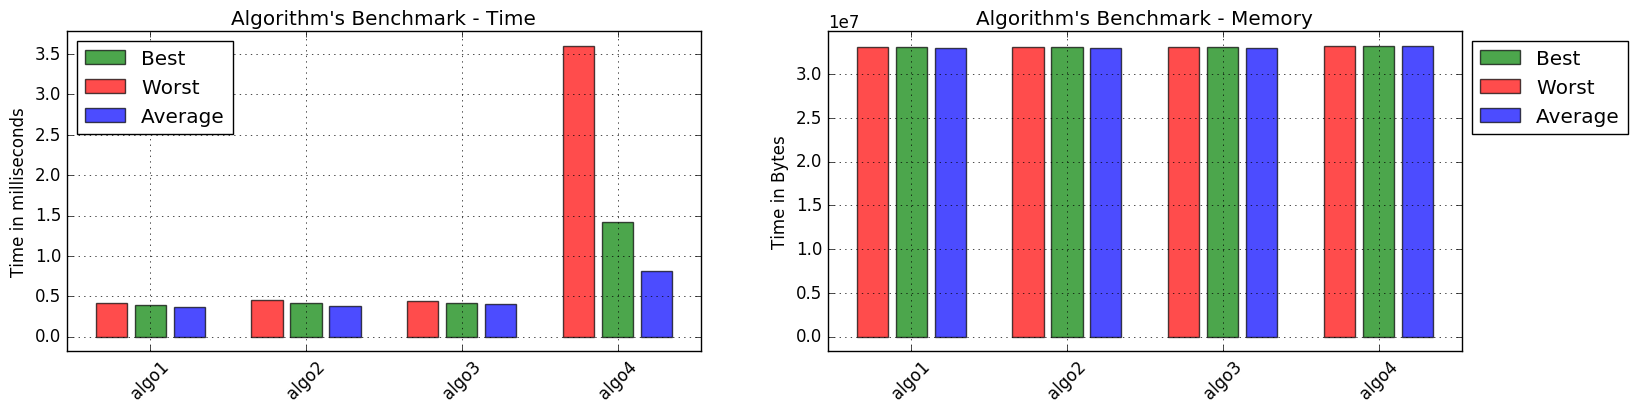
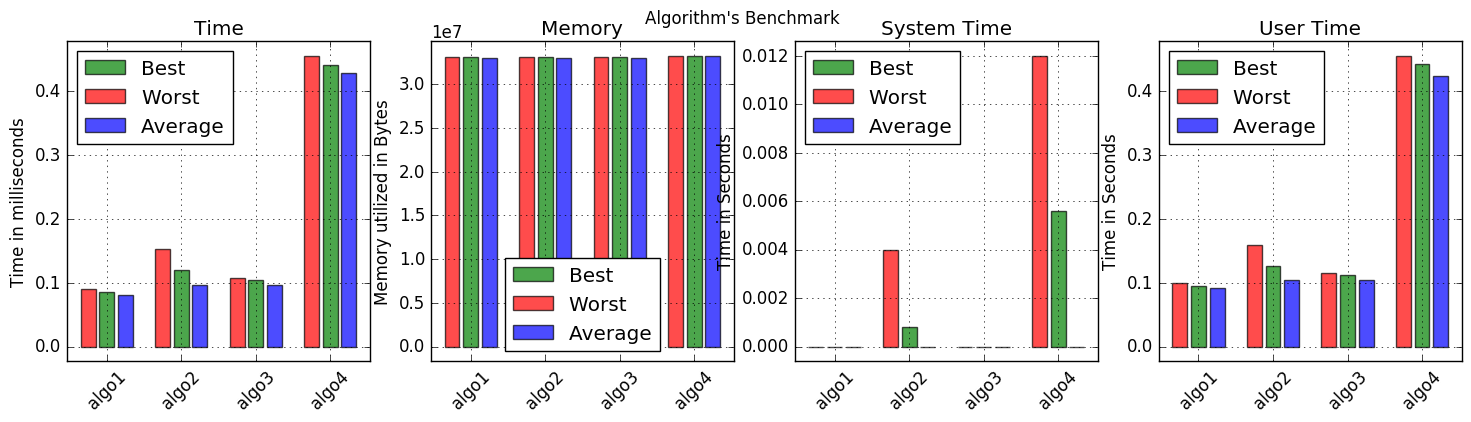
added user time and system time for benchmark test

diff --git a/benchmark/utilities/make_graph.py b/benchmark/utilities/make_graph.py
@@ -13,49 +13,81 @@ import numpy as np
 def generate_graph(results, algo_names):
     """Function to generate graph of the results"""
     fig = plt.figure(figsize=(18, 4), dpi=1600)
-
+    fig.suptitle('Algorithm\'s Benchmark', fontsize=12)
     alpha = 0.7
     colors = ['g', 'r', 'b']
     X = np.arange(len(algo_names))
     dists = [0, -0.25, 0.25]
     labels = ['Best', 'Worst', 'Average']
     x_vals = algo_names
-    memory_list, time_list = [], []
+    memory_list, time_list, sys_time_list, user_time_list = [], [], [], []
 
     for __, values in results.iteritems():
         memory_list.append(values['memory'].values())
         time_list.append(values['time'].values())
+        sys_time_list.append(values['sys_time'].values())
+        user_time_list.append(values['user_time'].values())
 
     memory_transpose = zip(*memory_list)
     time_transpose = zip(*time_list)
+    sys_time_transpose = zip(*sys_time_list)
+    user_time_transpose = zip(*user_time_list)
 
     # algs_transpose = zip(
     #     *[[value for __, value in values.iteritems()]
     #       for __, values in results.iteritems()]
     # )
 
-    ax1 = fig.add_subplot(121)
+    ax1 = fig.add_subplot(141)
+
     for alg_t, color, dist, label in zip(time_transpose, colors, dists, labels):
         ax1.bar(X + dist, alg_t, width=0.2, color=color,
                 align='center', label=label, alpha=alpha)
 
-    plt.title('Algorithm\'s Benchmark - Time')
+    plt.title('Time')
     plt.xticks(X, x_vals, rotation=45)
     plt.legend(loc='best')
     plt.ylabel('Time in milliseconds')
     plt.grid(True)
     ax1.margins(0.05)
-    ax2 = fig.add_subplot(122)
+
+    ax2 = fig.add_subplot(142)
 
     for alg_t, color, dist, label in zip(memory_transpose, colors, dists, labels):
         ax2.bar(X + dist, alg_t, width=0.2, color=color,
                 align='center', label=label, alpha=alpha)
 
-    plt.title('Algorithm\'s Benchmark - Memory')
+    plt.title('Memory')
     plt.xticks(X, x_vals, rotation=45)
-    plt.legend(loc='best', bbox_to_anchor=(1, 1))
-    plt.ylabel('Time in Bytes')
+    plt.legend(loc='best')
+    plt.ylabel('Memory utilized in Bytes')
     plt.grid(True)
     ax2.margins(0.05)
+
+    ax3 = fig.add_subplot(143)
+
+    for alg_t, color, dist, label in zip(sys_time_transpose, colors, dists, labels):
+        ax3.bar(X + dist, alg_t, width=0.2, color=color,
+                align='center', label=label, alpha=alpha)
+
+    plt.title('System Time')
+    plt.xticks(X, x_vals, rotation=45)
+    plt.legend(loc='best')
+    plt.ylabel('Time in Seconds')
+    plt.grid(True)
+    ax3.margins(0.05)
+
+    ax4 = fig.add_subplot(144)
+
+    for alg_t, color, dist, label in zip(user_time_transpose, colors, dists, labels):
+        ax4.bar(X + dist, alg_t, width=0.2, color=color,
+                align='center', label=label, alpha=alpha)
+
+    plt.title('User Time')
+    plt.xticks(X, x_vals, rotation=45)
+    plt.legend(loc='best')
+    plt.ylabel('Time in Seconds')
+    plt.grid(True)
+    ax4.margins(0.05)
 
     plt.savefig('results.png', bbox_inches='tight')

diff --git a/benchmark/utilities/calculate_time.py b/benchmark/utilities/calculate_time.py
@@ -9,34 +9,50 @@ https://www.algorithmhub.com/
 
 from __future__ import division
 import time
+import resource
+
 from guppy import hpy
 
 
 def find_time(method):
 
     def timed(*args, **kwargs):
-        total, memory = [], []
+        total, memory, sys_time, user_time = [], [], [], []
         loops = 5
 
         # to measure the memory or virtual memory used
         h = hpy()
 
         # to reduce the time involed in calculating memory
-        diff = 0.0836183111810684159
+        diff = 0.00836183111810684159
 
         for i in range(loops):
-            time_start = time.time()
+
+            # calculate the start time and the resource usage
+            start_time, start_resources = time.time(), resource.getrusage(resource.RUSAGE_SELF)
 
             # executes the function
             result = method(*args, **kwargs)
 
+            # calculate the end time and the resource usage
+            end_resources, end_time = resource.getrusage(resource.RUSAGE_SELF), time.time()
+
             # calculater the memory used
             mem = h.heap().size
-            time_taken = time.time() - time_start
+            time_taken = end_time - start_time
+            sys_t = end_resources.ru_stime - start_resources.ru_stime
+            user_t = end_resources.ru_utime - start_resources.ru_utime
 
-            print 'Time taken - {a} of {l} loops: {t}'\
-                '\tMemory used - {a} of {l} loops: {m}'.format(a=i + 1, l=loops, t=time_taken, m=mem)
+            print 'For {a} of {l} loops' \
+                '\tTime taken: {t}' \
+                '\tSystem time: {s}' \
+                '\tUser time: {u}' \
+                '\tMemory used: {m}'.format(a=i + 1, l=loops, t=time_taken,
+                                            m=mem, s=sys_t, u=user_t)
+
             total.append(abs(time_taken - diff))
+            sys_time.append(sys_t)
+            user_time.append(user_t)
             memory.append(mem)
 
         return {
@@ -51,7 +67,19 @@ def find_time(method):
                     'best': min(memory),
                     'worst': max(memory),
                     'average': sum(memory) / len(memory)
-                }
+                },
+            'sys_time':
+                {
+                    'best': min(sys_time),
+                    'worst': max(sys_time),
+                    'average': sum(sys_time) / len(sys_time)
+                },
+            'user_time':
+                {
+                    'best': min(user_time),
+                    'worst': max(user_time),
+                    'average': sum(user_time) / len(user_time)
+                },
         }
 
     return timed

diff --git a/benchmark/algorithms/algo_list.py b/benchmark/algorithms/algo_list.py
@@ -7,14 +7,16 @@ This is for testing purpose only.
 AlgorithmHub. All rights reserved.
 https://www.algorithmhub.com/
 """
-def algo1(max_n):
+
+
+def algo1(n):
     # http://stackoverflow.com/questions/2068372/fastest-way-to-list-all-primes-below-n-in-python/2073279#2073279
     """ Returns  a list of primes < n """
-    numbers = range(3, max_n + 1, 2)
-    half = (max_n) // 2
+    numbers = range(3, n + 1, 2)
+    half = (n) // 2
     initial = 4
 
-    for step in xrange(3, max_n + 1, 2):
+    for step in xrange(3, n + 1, 2):
         for i in xrange(initial, half, step):
             numbers[i - 1] = 0
         initial += 2 * (step + 1)

diff --git a/benchmark/benchmark.py b/benchmark/benchmark.py
@@ -51,4 +51,5 @@ print
 print 'Overall Results'
 print results
 
+# to generate the graphs of the results
 generate_graph(results, algo_names)

diff --git a/benchmark/README.md b/benchmark/README.md
@@ -5,15 +5,14 @@ This directory contains all the benchmark tests.
 ## Python Dependencies
 * matplotlib
 * numpy
+* guppy
 
 The following parameters are to be considered for version 0.1.0:
 
 * Time taken
 * Virtual memory or RAM space utilization
-* CPU utilization
-* Total number of CPU-seconds
-* Elapsed real (wall clock) time used by the process
-* Total number of CPU-seconds used by the system
+* System time
+* User time
 
 To run the bechmark tests:
 ```
@@ -22,33 +21,33 @@ $ sudo python benchmark.py
 This will give the following output:
 ```
 Time taken for algo1
-Time taken - 1 of 5 loops: 3.68740606308    Memory used - 1 of 5 loops: 33248488
-Time taken - 2 of 5 loops: 1.00408911705    Memory used - 2 of 5 loops: 33250760
-Time taken - 3 of 5 loops: 0.942035913467   Memory used - 3 of 5 loops: 33250856
-Time taken - 4 of 5 loops: 0.899518966675   Memory used - 4 of 5 loops: 33250856
-Time taken - 5 of 5 loops: 1.01477003098    Memory used - 5 of 5 loops: 33250952
+For 1 of 5 loops    Time taken: 0.437947034836  System time: 0.012  User time: 0.424    Memory used: 33265656
+For 2 of 5 loops    Time taken: 0.464282989502  System time: 0.008  User time: 0.456    Memory used: 33268104
+For 3 of 5 loops    Time taken: 0.437602996826  System time: 0.0    User time: 0.436    Memory used: 33268248
+For 4 of 5 loops    Time taken: 0.446910142899  System time: 0.004  User time: 0.444    Memory used: 33268296
+For 5 of 5 loops    Time taken: 0.459230184555  System time: 0.004  User time: 0.456    Memory used: 33268440
 Time taken for algo2
-Time taken - 1 of 5 loops: 0.541555166245   Memory used - 1 of 5 loops: 33008696
-Time taken - 2 of 5 loops: 0.496054172516   Memory used - 2 of 5 loops: 33091336
-Time taken - 3 of 5 loops: 0.50258898735    Memory used - 3 of 5 loops: 33091512
-Time taken - 4 of 5 loops: 0.504120111465   Memory used - 4 of 5 loops: 33091608
-Time taken - 5 of 5 loops: 0.460325956345   Memory used - 5 of 5 loops: 33091608
+For 1 of 5 loops    Time taken: 0.145737886429  System time: 0.004  User time: 0.14 Memory used: 33026480
+For 2 of 5 loops    Time taken: 0.112924098969  System time: 0.0    User time: 0.112    Memory used: 33109296
+For 3 of 5 loops    Time taken: 0.161767959595  System time: 0.0    User time: 0.16 Memory used: 33109608
+For 4 of 5 loops    Time taken: 0.116852045059  System time: 0.0    User time: 0.116    Memory used: 33109752
+For 5 of 5 loops    Time taken: 0.105036020279  System time: 0.0    User time: 0.104    Memory used: 33109800
 Time taken for algo3
-Time taken - 1 of 5 loops: 0.529996871948   Memory used - 1 of 5 loops: 33009728
-Time taken - 2 of 5 loops: 0.501305103302   Memory used - 2 of 5 loops: 33092272
-Time taken - 3 of 5 loops: 0.509891033173   Memory used - 3 of 5 loops: 33092544
-Time taken - 4 of 5 loops: 0.493989944458   Memory used - 4 of 5 loops: 33092544
-Time taken - 5 of 5 loops: 0.483810901642   Memory used - 5 of 5 loops: 33092640
+For 1 of 5 loops    Time taken: 0.114185810089  System time: 0.0    User time: 0.112    Memory used: 33028216
+For 2 of 5 loops    Time taken: 0.116523981094  System time: 0.0    User time: 0.116    Memory used: 33110936
+For 3 of 5 loops    Time taken: 0.113718986511  System time: 0.0    User time: 0.112    Memory used: 33111344
+For 4 of 5 loops    Time taken: 0.11449098587   System time: 0.0    User time: 0.116    Memory used: 33111392
+For 5 of 5 loops    Time taken: 0.104866027832  System time: 0.0    User time: 0.104    Memory used: 33111536
 Time taken for algo4
-Time taken - 1 of 5 loops: 0.499253988266   Memory used - 1 of 5 loops: 33010664
-Time taken - 2 of 5 loops: 0.475882053375   Memory used - 2 of 5 loops: 33093216
-Time taken - 3 of 5 loops: 0.449546098709   Memory used - 3 of 5 loops: 33093480
-Time taken - 4 of 5 loops: 0.490152835846   Memory used - 4 of 5 loops: 33093576
-Time taken - 5 of 5 loops: 0.456408023834   Memory used - 5 of 5 loops: 33093576
+For 1 of 5 loops    Time taken: 0.0981259346008 System time: 0.0    User time: 0.1  Memory used: 33029832
+For 2 of 5 loops    Time taken: 0.0889449119568 System time: 0.0    User time: 0.092    Memory used: 33112648
+For 3 of 5 loops    Time taken: 0.0960028171539 System time: 0.0    User time: 0.096    Memory used: 33112960
+For 4 of 5 loops    Time taken: 0.0967919826508 System time: 0.0    User time: 0.096    Memory used: 33113104
+For 5 of 5 loops    Time taken: 0.0913970470428 System time: 0.0    User time: 0.092    Memory used: 33113152
 
 Overall Results
-{'algo4': {'memory': {'average': 33076902.4, 'worst': 33093576, 'best': 33010664}, 'time': {'average': 0.3906302888250351, 'worst': 0.41563567708492277, 'best': 0.365927787528038}}, 'algo2': {'memory': {'average': 33074952.0, 'worst': 33091608, 'best': 33008696}, 'time': {'average': 0.41731056760311125, 'worst': 0.4579368550634384, 'best': 0.37670764516353605}}, 'algo3': {'memory': {'average': 33075945.6, 'worst': 33092640, 'best': 33009728}, 'time': {'average': 0.42018045972347257, 'worst': 0.44637856076717375, 'best': 0.40019259046077726}}, 'algo1': {'memory': {'average': 33250382.4, 'worst': 33250952, 'best': 33248488}, 'time': {'average': 1.4259457070684434, 'worst': 3.6037877518987655, 'best': 0.8159006554937362}}}
-[Finished in 22.7s]
+{'algo4': {'sys_time': {'average': 0.0, 'worst': 0.0, 'best': 0.0}, 'memory': {'average': 33096339.2, 'worst': 33113152, 'best': 33029832}, 'user_time': {'average': 0.09519999999999981, 'worst': 0.10000000000000142, 'best': 0.09199999999999875}, 'time': {'average': 0.08589070756292343, 'worst': 0.08976410348272323, 'best': 0.08058308083868027}}, 'algo2': {'sys_time': {'average': 0.0008000000000000007, 'worst': 0.0040000000000000036, 'best': 0.0}, 'memory': {'average': 33092987.2, 'worst': 33109800, 'best': 33026480}, 'user_time': {'average': 0.12640000000000012, 'worst': 0.16000000000000014, 'best': 0.10400000000000098}, 'time': {'average': 0.1201017709479332, 'worst': 0.15340612847661972, 'best': 0.09667418916082382}}, 'algo3': {'sys_time': {'average': 0.0, 'worst': 0.0, 'best': 0.0}, 'memory': {'average': 33094684.8, 'worst': 33111536, 'best': 33028216}, 'user_time': {'average': 0.1120000000000001, 'worst': 0.11600000000000144, 'best': 0.1039999999999992}, 'time': {'average': 0.1043953271613121, 'worst': 0.10816214997625351, 'best': 0.0965041967139244}}, 'algo1': {'sys_time': {'average': 0.005600000000000005, 'worst': 0.01200000000000001, 'best': 0.0}, 'memory': {'average': 33267748.8, 'worst': 33268440, 'best': 33265656}, 'user_time': {'average': 0.4431999999999999, 'worst': 0.4560000000000004, 'best': 0.42399999999999993}, 'time': {'average': 0.44083283860540395, 'worst': 0.4559211583838463, 'best': 0.42924116570806503}}}
+[Finished in 19.5s]
 ```
 
 The generated graph would be:
